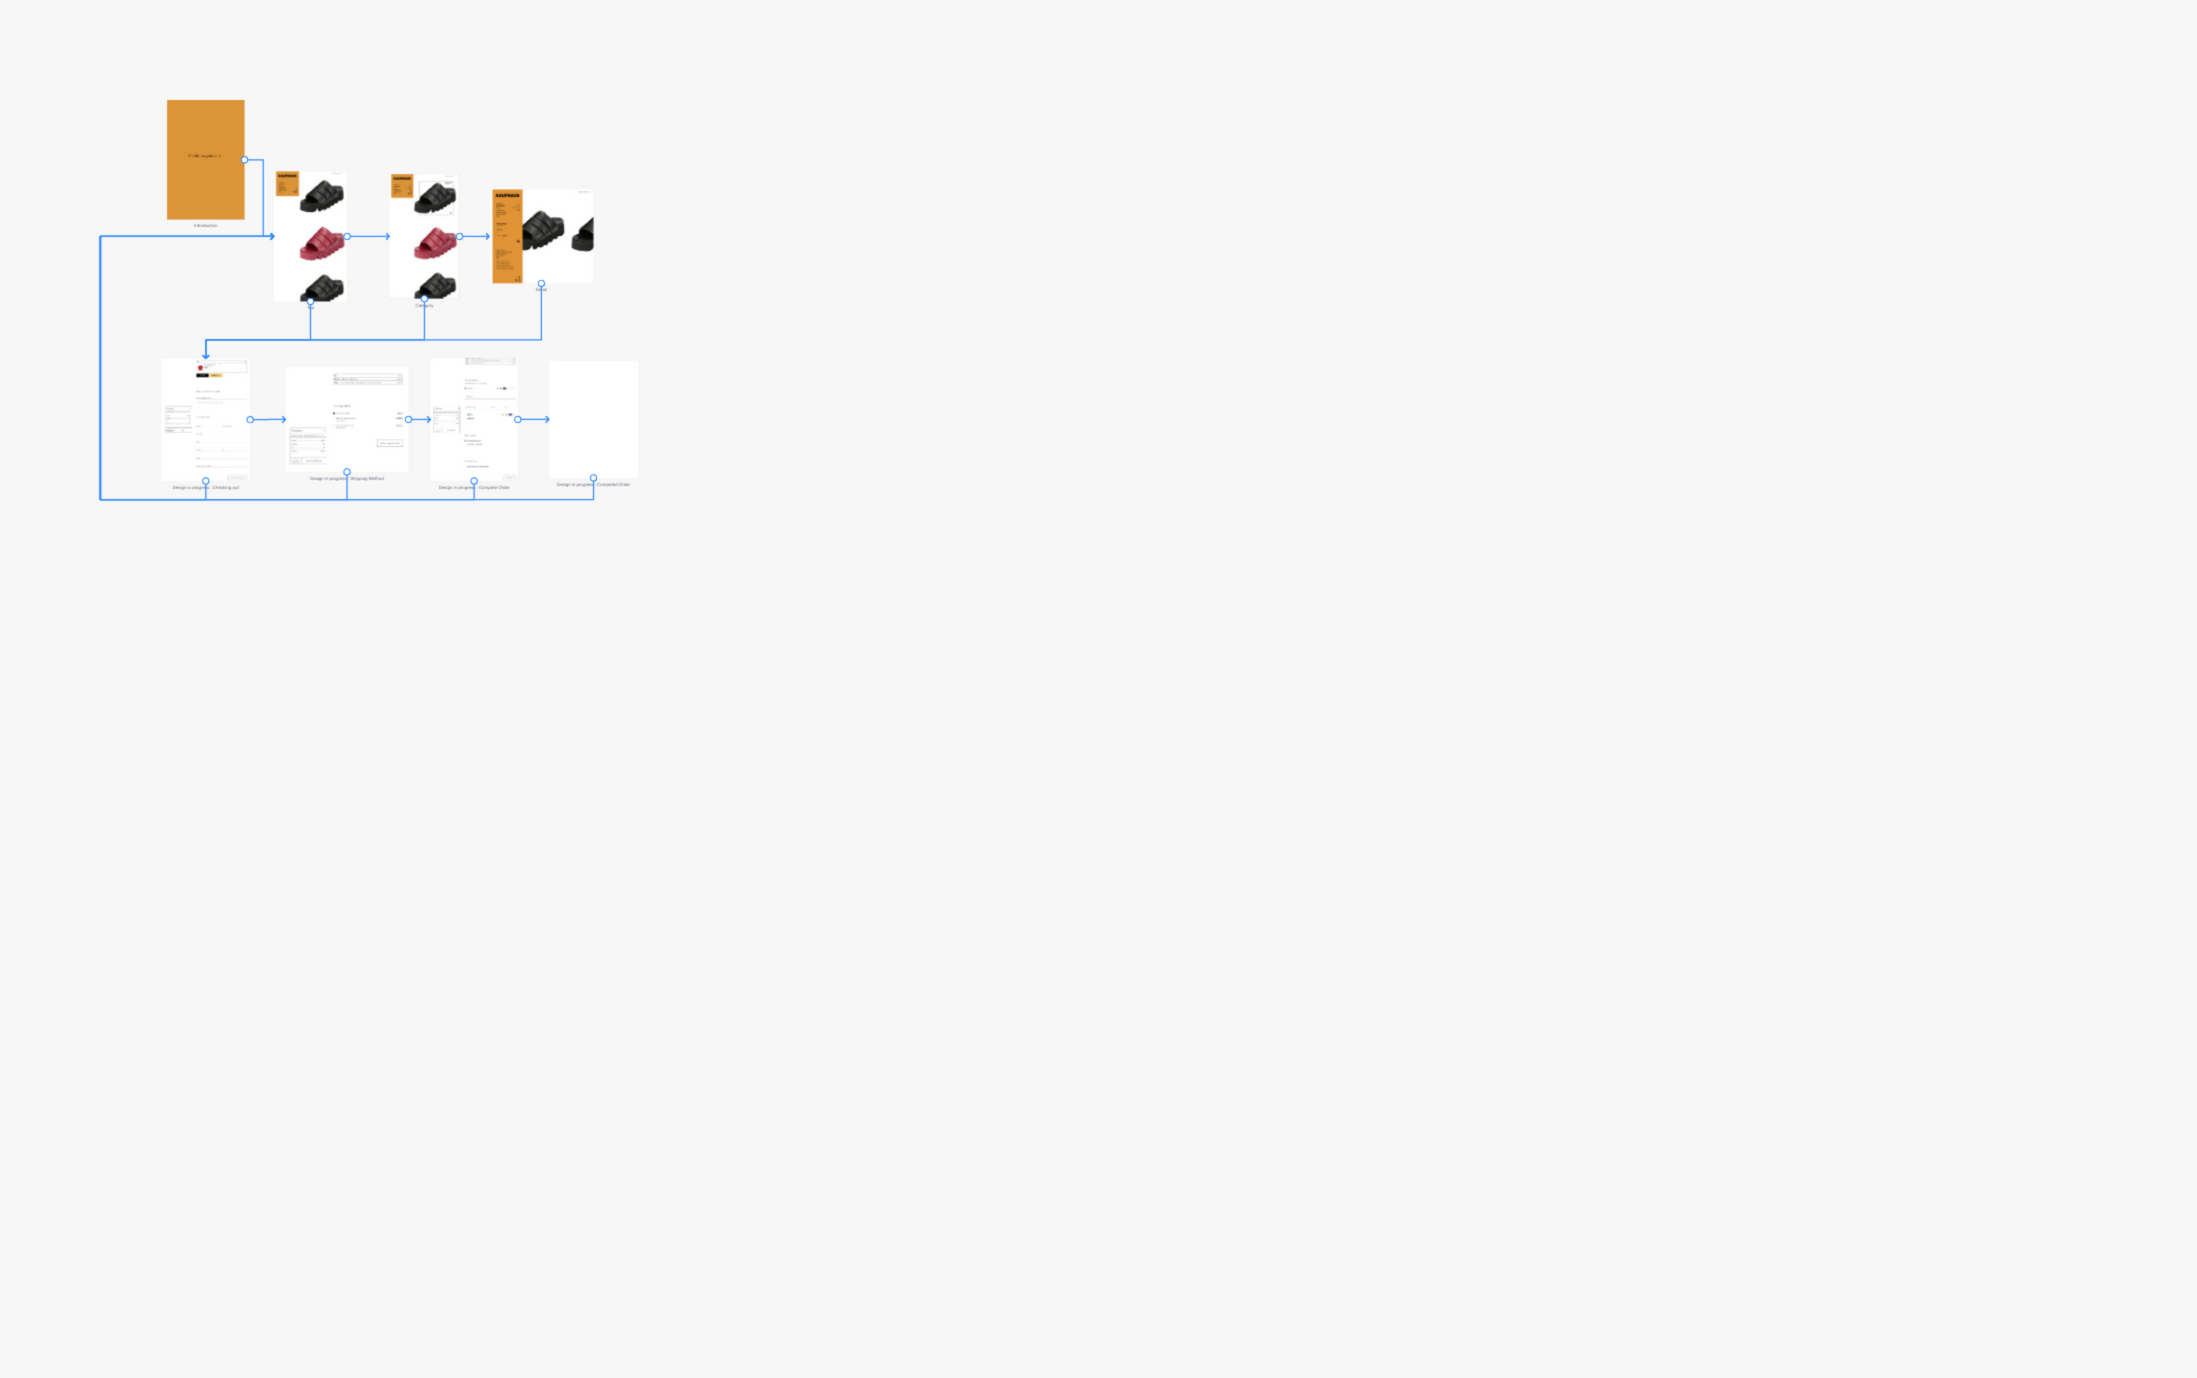
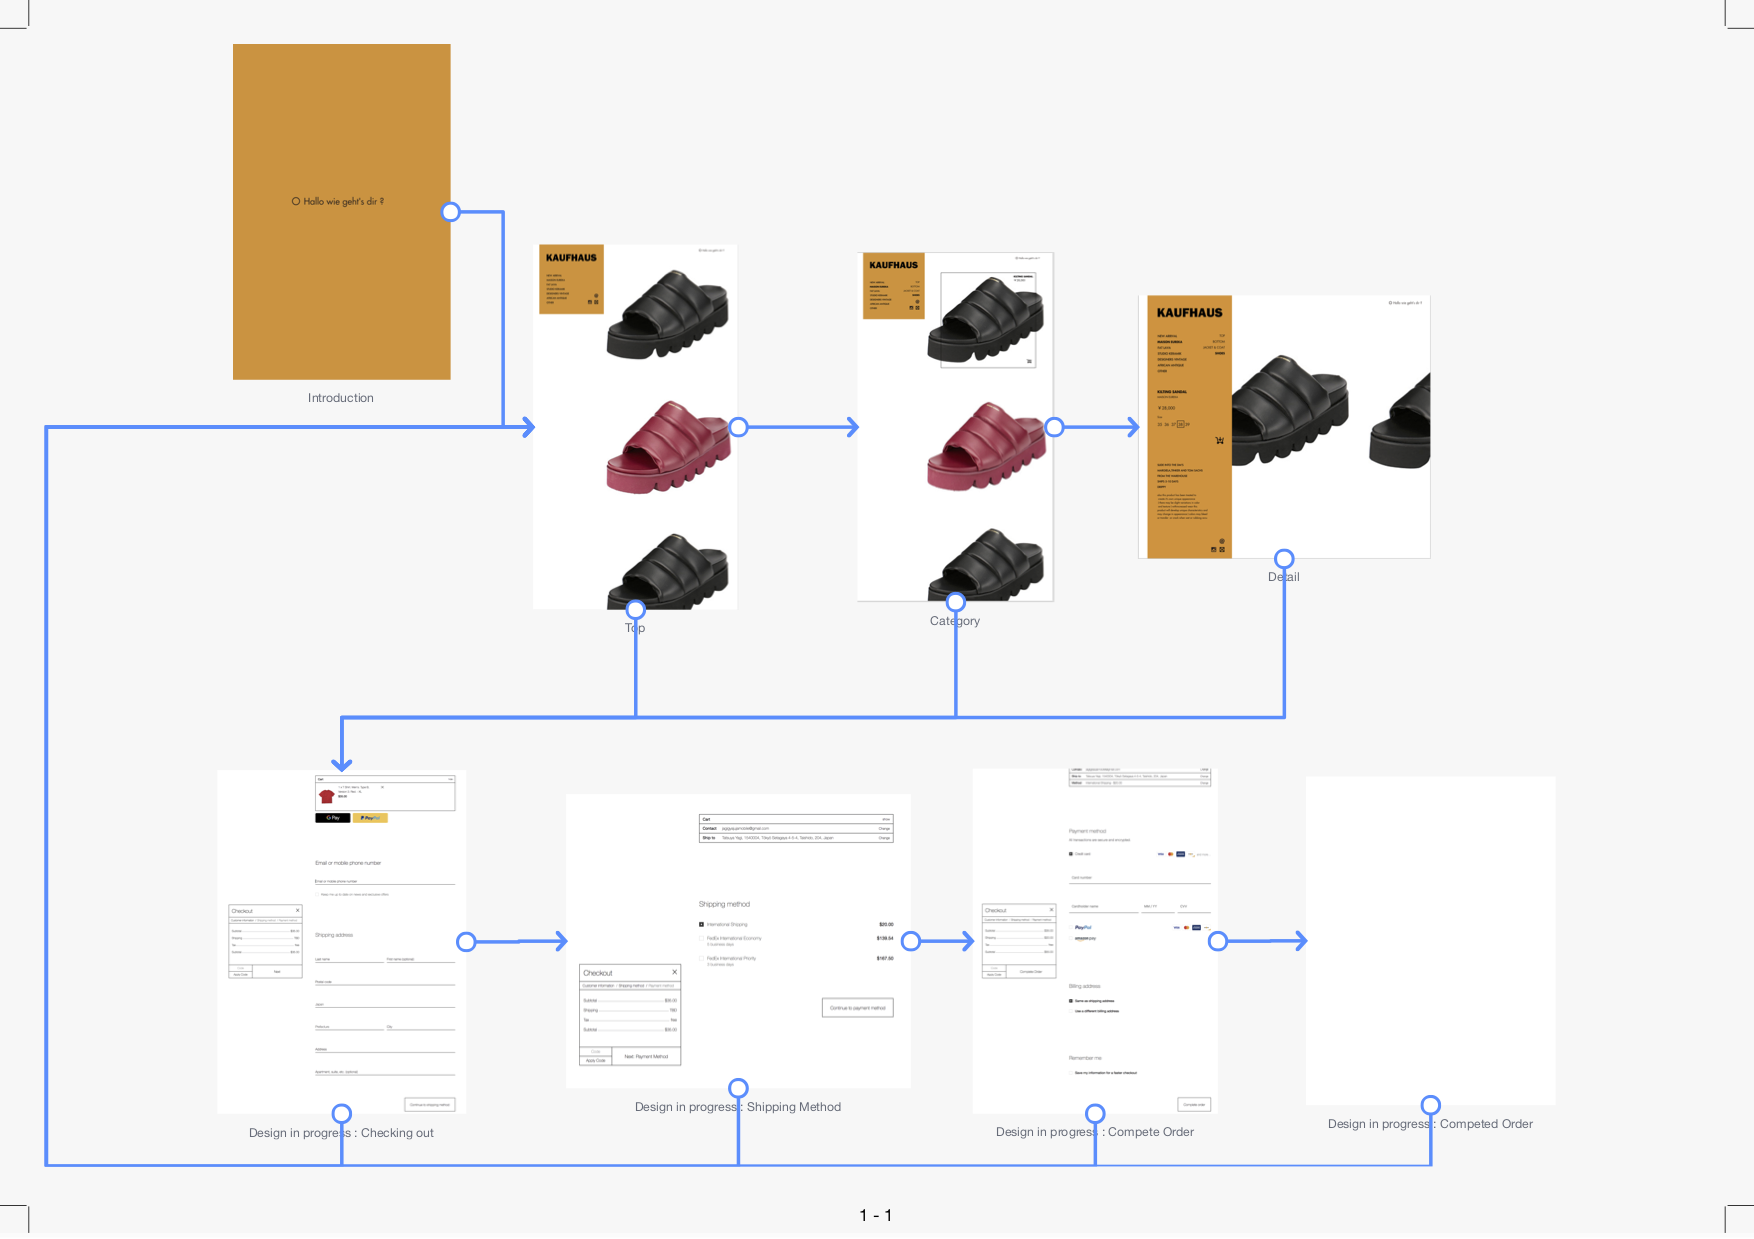
commit

diff --git a/docs/Overview.md b/docs/Overview.md
@@ -30,4 +30,4 @@
 
 # 画面遷移図
 
-![画面遷移図](overflow/ViewFlowOverview.pdf "画面遷移図")
+![画面遷移図](overflow/ViewFlowOverview.png "画面遷移図")
